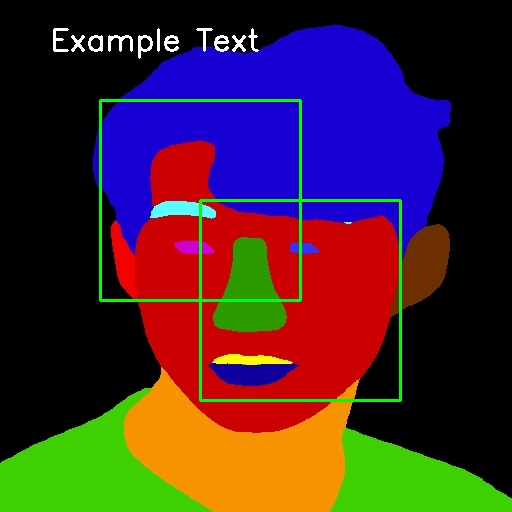
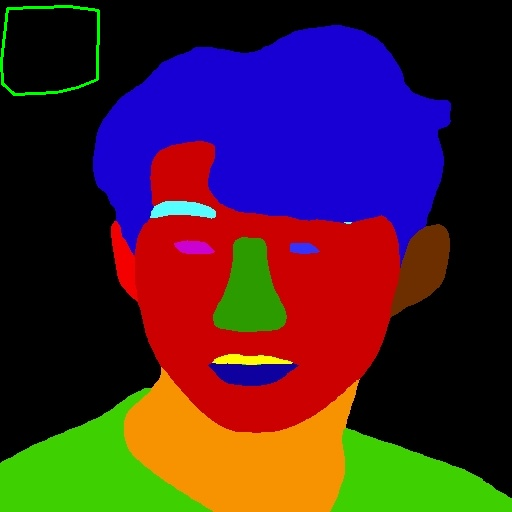
JAEHA : Add draw convexhull

Changed region(s): [[0.1875, 0.1875, 0.8125, 0.8125], [0.0, 0.0, 0.3438, 0.1875], [0.375, 0.0312, 0.5, 0.125]]

diff --git a/img_module/ImageProcessor.py b/img_module/ImageProcessor.py
@@ -1,5 +1,5 @@
 import cv2
-
+import numpy as np
 class ImageProcessor:
     def __init__(self, image_path):
         self.image = cv2.imread(image_path)
@@ -8,11 +8,22 @@ class ImageProcessor:
     
     def add_bounding_box(self, x_min, y_min, x_max, y_max, color=(0, 255, 0), thickness=2):
         cv2.rectangle(self.image, (x_min, y_min), (x_max, y_max), color, thickness)
-    
+        
     def add_bounding_boxes(self, boxes, color=(0, 255, 0), thickness=2):
         for box in boxes:
             x_min, y_min, x_max, y_max = box
             self.add_bounding_box(x_min, y_min, x_max, y_max, color, thickness)
+    
+    def draw_convex_hull(self, points, color=(0, 255, 0), thickness=2):
+        hull = cv2.convexHull(np.array(points).astype(np.int32))  # Convex Hull 계산
+        cv2.polylines(self.image, [hull], isClosed=True, color=color, thickness=thickness)  # Convex Hull 그리기
+
+    def draw_point(self, point, color=(0, 0, 255), radius=5):
+        cv2.circle(self.image, (int(point[0]),int(point[1])), radius, color, -1)  # 점 그리기
+
+    def draw_points(self, points, color=(0, 0, 255), radius=5):
+        for point in points:
+            self.draw_point(tuple(point), color, radius)  # 모든 점 그리기
     
     def add_text(self, text, x, y, font=cv2.FONT_HERSHEY_SIMPLEX, font_scale=1, color=(255, 255, 255), thickness=2):
         cv2.putText(self.image, text, (x, y), font, font_scale, color, thickness)

diff --git a/main.py b/main.py
@@ -1,8 +1,15 @@
 from img_module.ImageProcessor import ImageProcessor
-
+import numpy as np
 if __name__ == "__main__":
     image_processor = ImageProcessor("/Users/jaeha/Desktop/jaeha/son2.png")
     bounding_boxes = [(100, 100, 300, 300), (200, 200, 400, 400)]  # 여러 개의 bounding box 좌표 리스트
-    image_processor.add_bounding_boxes(bounding_boxes)
-    image_processor.add_text("Example Text", 50, 50)
+    
+    np.random.seed(0)
+    points = np.random.rand(30, 2) * 100  # 30개의 랜덤한 (x, y) 좌표 생성 (이 예시에서는 400x400 이미지 내에서 생성)
+    print(points)
+    # image_processor.draw_points(points)
+    image_processor.draw_convex_hull(points)
+    
+    # image_processor.add_bounding_boxes(bounding_boxes)
+    # image_processor.add_text("Example Text", 50, 50)
     image_processor.save_image("./output_image.jpg")
